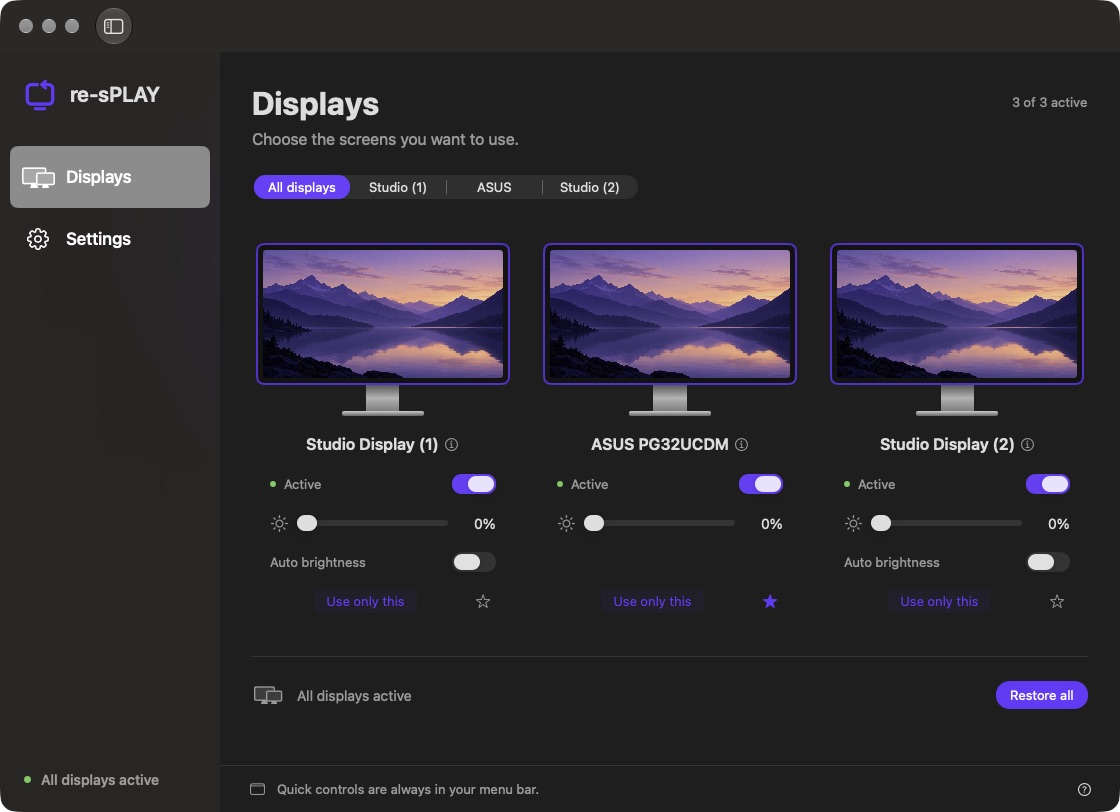
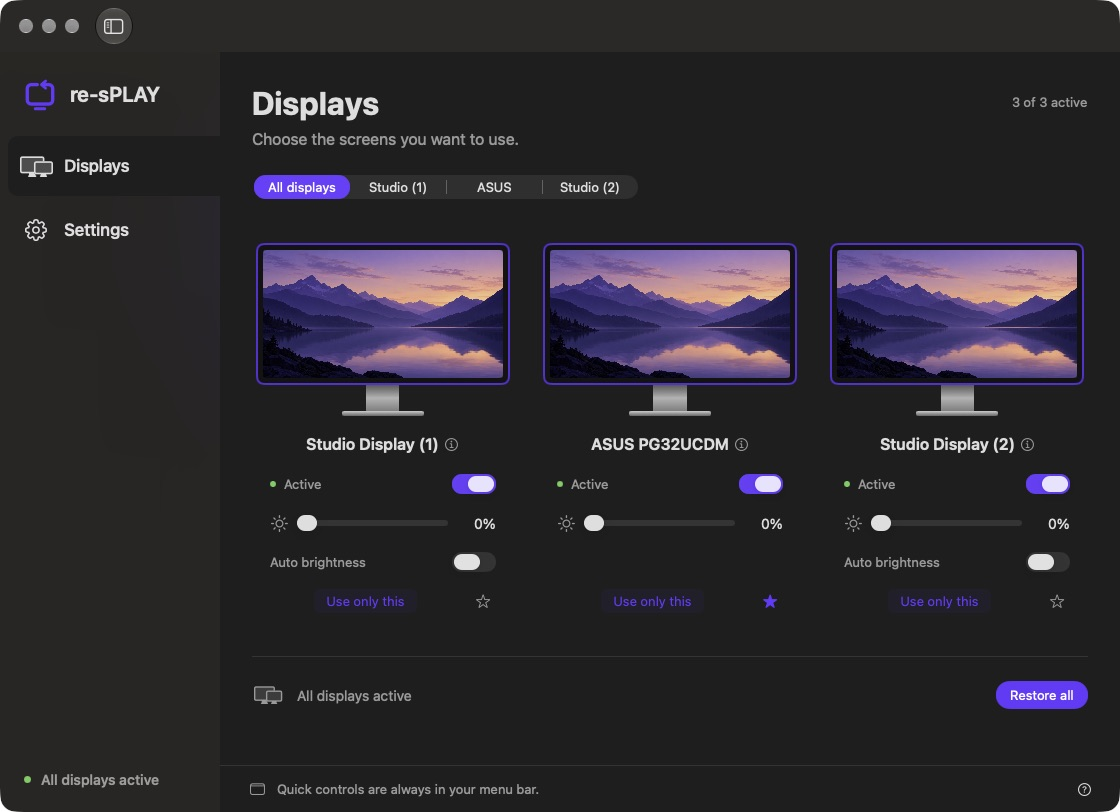
Connect selected sidebar tab to the detail background

Changed region(s): [[0.0, 0.1539, 0.1875, 0.3079]]

diff --git a/Sources/DisplayWindow.swift b/Sources/DisplayWindow.swift
@@ -91,20 +91,38 @@ struct DisplayWindow: View {
                 }
                 .padding(.horizontal, 22).padding(.top, 24).padding(.bottom, 24)
 
-                List(selection: $model.section) {
+                VStack(spacing: 4) {
                     ForEach(AppSection.allCases) { section in
-                        HStack(spacing: 14) {
-                            Image(systemName: section.icon)
-                                .font(.system(size: 21, weight: .regular))
-                                .frame(width: 28).accessibilityHidden(true)
-                            Text(section.rawValue).font(.system(size: 17, weight: .medium))
-                            Spacer(minLength: 0)
+                        Button { model.section = section } label: {
+                            HStack(spacing: 14) {
+                                Image(systemName: section.icon)
+                                    .font(.system(size: 21, weight: .regular))
+                                    .frame(width: 28).accessibilityHidden(true)
+                                Text(section.rawValue).font(.system(size: 17, weight: .medium))
+                                Spacer(minLength: 0)
+                            }
+                            .foregroundStyle(.primary)
+                            .frame(minHeight: 60)
+                            .padding(.leading, 14).padding(.trailing, 20)
+                            .contentShape(Rectangle())
+                            .background {
+                                if model.section == section {
+                                    UnevenRoundedRectangle(topLeadingRadius: 10, bottomLeadingRadius: 10)
+                                        .fill(Color(nsColor: .windowBackgroundColor))
+                                }
+                            }
                         }
-                        .frame(minHeight: 48)
-                        .padding(.horizontal, 8).padding(.vertical, 3)
-                        .tag(section)
+                        .buttonStyle(.plain)
+                        .accessibilityLabel(section.rawValue)
+                        .accessibilityAddTraits(model.section == section ? .isSelected : [])
                     }
-                }.listStyle(.sidebar)
+                }
+                .padding(.leading, 8)
+                .onMoveCommand { direction in
+                    if direction == .up { model.section = .displays }
+                    else if direction == .down { model.section = .settings }
+                }
+                Spacer(minLength: 24)
 
                 HStack(spacing: 10) {
                     Circle().fill(model.busy ? Color.orange : Color.green)

diff --git a/README.md b/README.md
@@ -4,7 +4,7 @@
 
 A native macOS menu bar app for choosing which displays to use—without unplugging cables.
 
-Use one monitor exclusively, restore your workspace, and adjust each display’s brightness from a compact SwiftUI interface. Built for macOS 27+ on Apple silicon. Current version: **0.8.6**.
+Use one monitor exclusively, restore your workspace, and adjust each display’s brightness from a compact SwiftUI interface. Built for macOS 27+ on Apple silicon. Current version: **0.8.7**.
 
 ## Features
 
@@ -22,7 +22,7 @@ Display disconnection requests standby; it does not cut AC power. Actual standby
 
 ## Preview
 
-The promotional banner shows version 0.8.4; the dark app capture includes the larger sidebar introduced in 0.8.5. View the unedited app captures in [dark appearance](docs/images/app-dark.png), [light appearance](docs/images/app-light.png), or [with the sidebar collapsed](docs/images/sidebar-collapsed.png). The app follows your system appearance.
+The promotional banner shows version 0.8.4; the dark app capture includes the connected sidebar selection introduced in 0.8.7. View the unedited app captures in [dark appearance](docs/images/app-dark.png), [light appearance](docs/images/app-light.png), or [with the sidebar collapsed](docs/images/sidebar-collapsed.png). The app follows your system appearance.
 
 Quick Controls keeps display switching and brightness in the menu bar:
 

diff --git a/TESTING.md b/TESTING.md
@@ -69,6 +69,13 @@ Earlier DDC tests confirmed changes to the ASUS luminance register, but those re
 - Installed app launched and sidebar collapse/reopen reached the correct states. The user physically confirmed that both sidebar and page transitions feel smooth; automated captures only verify settled states. Reduce Motion was not toggled on the user's system during testing.
 - Compilation, installed strict signature verification, archive integrity, and whitespace checks passed.
 
+## Version 0.8.7 connected sidebar selection
+
+- Replaced the system list highlight with navigation buttons whose selected background uses the same semantic window-background color as the detail pane. The selected shape has rounded left corners and extends to the sidebar's right edge.
+- Preserved selection accessibility traits, native button keyboard activation, up/down navigation handling, and the existing page transitions.
+- Visually confirmed the selected Displays tab joins the main pane and saved an updated capture. Settings inspection again encountered the known Codex native inspection-service failure; its rendered selection and keyboard navigation were not independently verified in this pass.
+- Compilation, installed strict signature verification, archive integrity, and whitespace checks passed. No display settings were changed.
+
 ## Build checks
 
 ```sh

diff --git a/docs/images/banner-prompt.md b/docs/images/banner-prompt.md
@@ -6,7 +6,7 @@ Updated October 12, 2026 using the built-in image-generation tool, with the real
 
 ## Source assets
 
-- `app-dark.png`: unedited 0.8.5 main window with the larger sidebar open (updated after banner generation).
+- `app-dark.png`: unedited 0.8.7 main window with the connected sidebar selection (updated after banner generation).
 - `sidebar-collapsed.png`: unedited 0.8.4 main window with sidebar collapsed.
 - `app-light.png`: earlier 0.8.0 light appearance capture.
 - `quick-controls.png`: earlier 0.8.0 light menu-bar popover capture.
